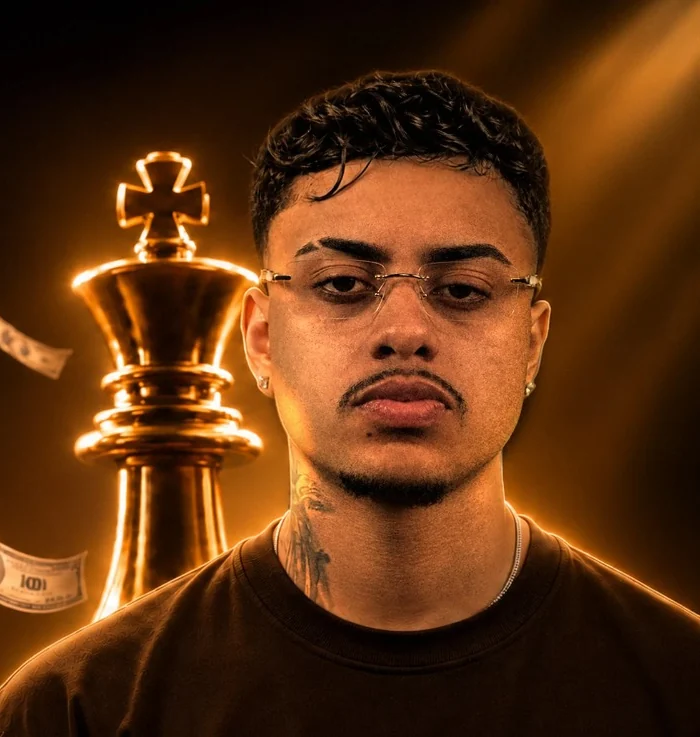
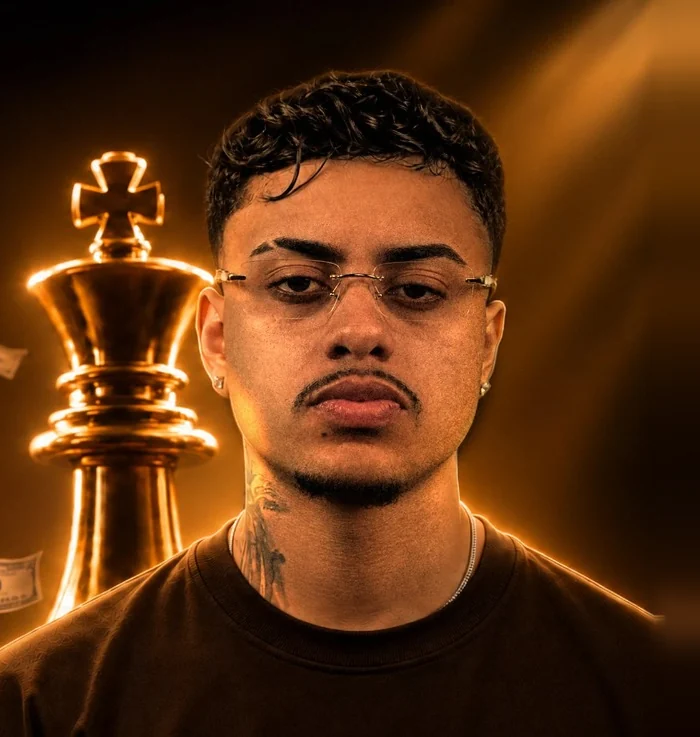
Hero mobile: Arthur levemente mais à esquerda
Claude-Session: https://claude.ai/code/session_01BLTcZpwwpWmSLn86UuK6mC

diff --git a/educacional.html b/educacional.html
@@ -11,11 +11,11 @@
 <meta name="theme-color" content="#070605">
 
 <link rel="preload" as="image" href="assets/hero-desktop.webp?v=1795059457" media="(min-width: 1080px)">
-<link rel="preload" as="image" href="assets/hero-mobile.webp?v=1795059689" media="(max-width: 1079px)">
+<link rel="preload" as="image" href="assets/hero-mobile.webp?v=1795059772" media="(max-width: 1079px)">
 <link rel="preload" as="font" type="font/woff2" href="assets/fonts/Syne-Bold.woff2" crossorigin>
 <link rel="preload" as="font" type="font/woff" href="assets/fonts/InterTight-Variable.woff" crossorigin>
 
-<link rel="stylesheet" href="assets/site.css?v=1795059689">
+<link rel="stylesheet" href="assets/site.css?v=1795059772">
 </head>
 <body data-ribbon-words="Autoridade|Eventos|Experiências|Estratégia|Posicionamento|Conhecimento|Expansão|Educação">
 

diff --git a/index.html b/index.html
@@ -11,11 +11,11 @@
 <meta name="theme-color" content="#070605">
 
 <link rel="preload" as="image" href="assets/hero-desktop.webp?v=1795059457" media="(min-width: 1080px)">
-<link rel="preload" as="image" href="assets/hero-mobile.webp?v=1795059689" media="(max-width: 1079px)">
+<link rel="preload" as="image" href="assets/hero-mobile.webp?v=1795059772" media="(max-width: 1079px)">
 <link rel="preload" as="font" type="font/woff2" href="assets/fonts/Syne-Bold.woff2" crossorigin>
 <link rel="preload" as="font" type="font/woff" href="assets/fonts/InterTight-Variable.woff" crossorigin>
 
-<link rel="stylesheet" href="assets/site.css?v=1795059689">
+<link rel="stylesheet" href="assets/site.css?v=1795059772">
 </head>
 <body data-ribbon-words="Autoridade|Eventos|Educação|Identidade visual|Instagram|Sites|Vídeos|Posicionamento">
 

diff --git a/assets/site.css b/assets/site.css
@@ -394,7 +394,7 @@ section{position:relative}
 @media (max-width:1079px){
   .hero{display:block;min-height:0;padding:0 0 110px}
   .hero__bg{position:relative;bottom:auto;right:auto;height:min(105vw,620px);width:min(100%,calc(min(105vw,620px) * .95));margin-inline:auto;
-    background:url("hero-mobile.webp?v=1795059689") center / cover no-repeat;
+    background:url("hero-mobile.webp?v=1795059772") center / cover no-repeat;
     -webkit-mask-image:linear-gradient(90deg,transparent 0%,#000 16%,#000 84%,transparent 100%);
             mask-image:linear-gradient(90deg,transparent 0%,#000 16%,#000 84%,transparent 100%)}
   .hero__bg::after{background:linear-gradient(0deg,var(--bg) 0%,rgba(7,6,5,0) 26%)}

diff --git a/digital.html b/digital.html
@@ -14,7 +14,7 @@
 <link rel="preload" as="font" type="font/woff2" href="assets/fonts/Syne-Bold.woff2" crossorigin>
 <link rel="preload" as="font" type="font/woff" href="assets/fonts/InterTight-Variable.woff" crossorigin>
 
-<link rel="stylesheet" href="assets/site.css?v=1795059689">
+<link rel="stylesheet" href="assets/site.css?v=1795059772">
 </head>
 <body data-ribbon-words="Identidade visual|Design|Instagram|Sites|Vídeos|Captação|Posicionamento|Presença digital">
 
